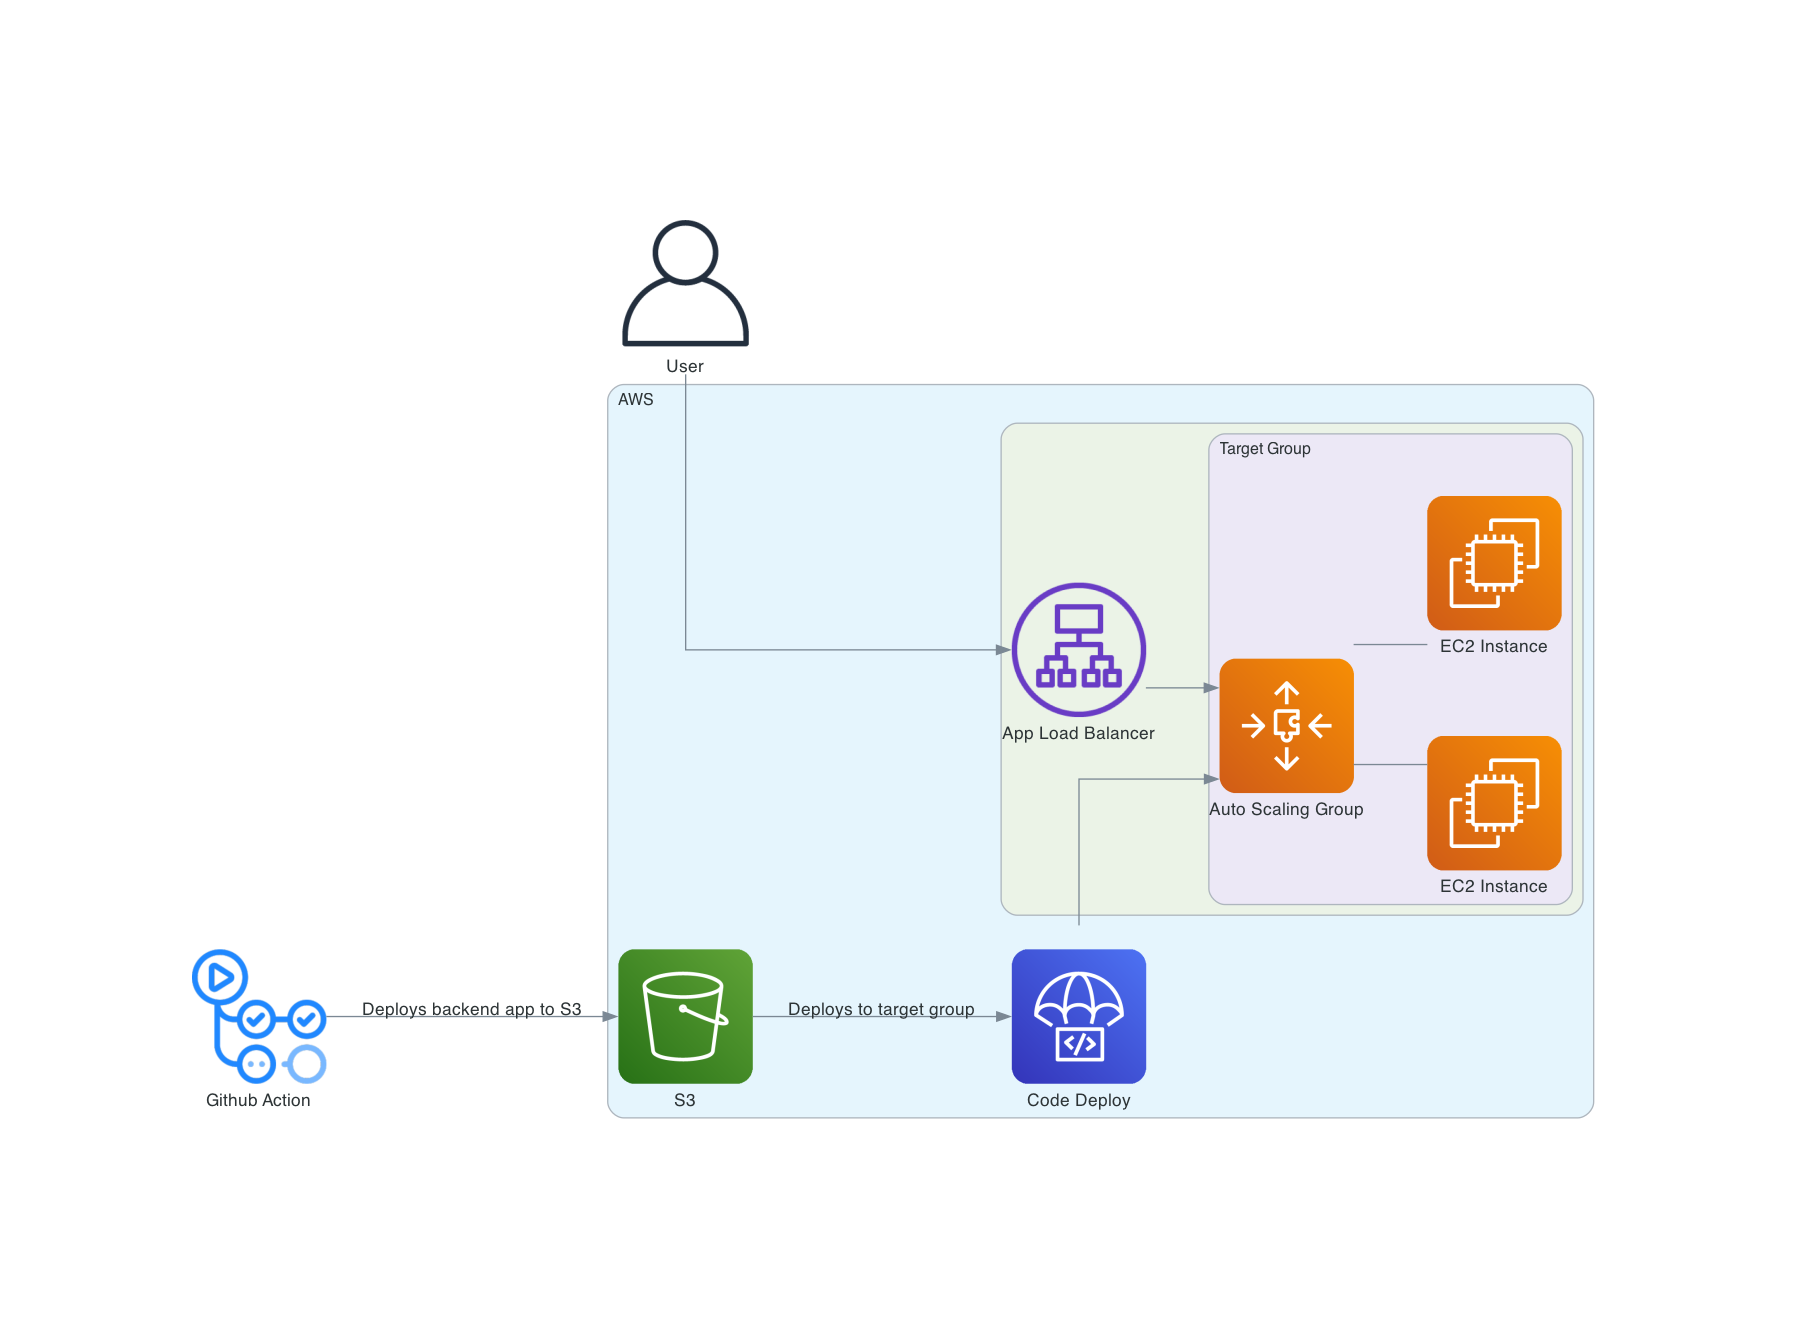
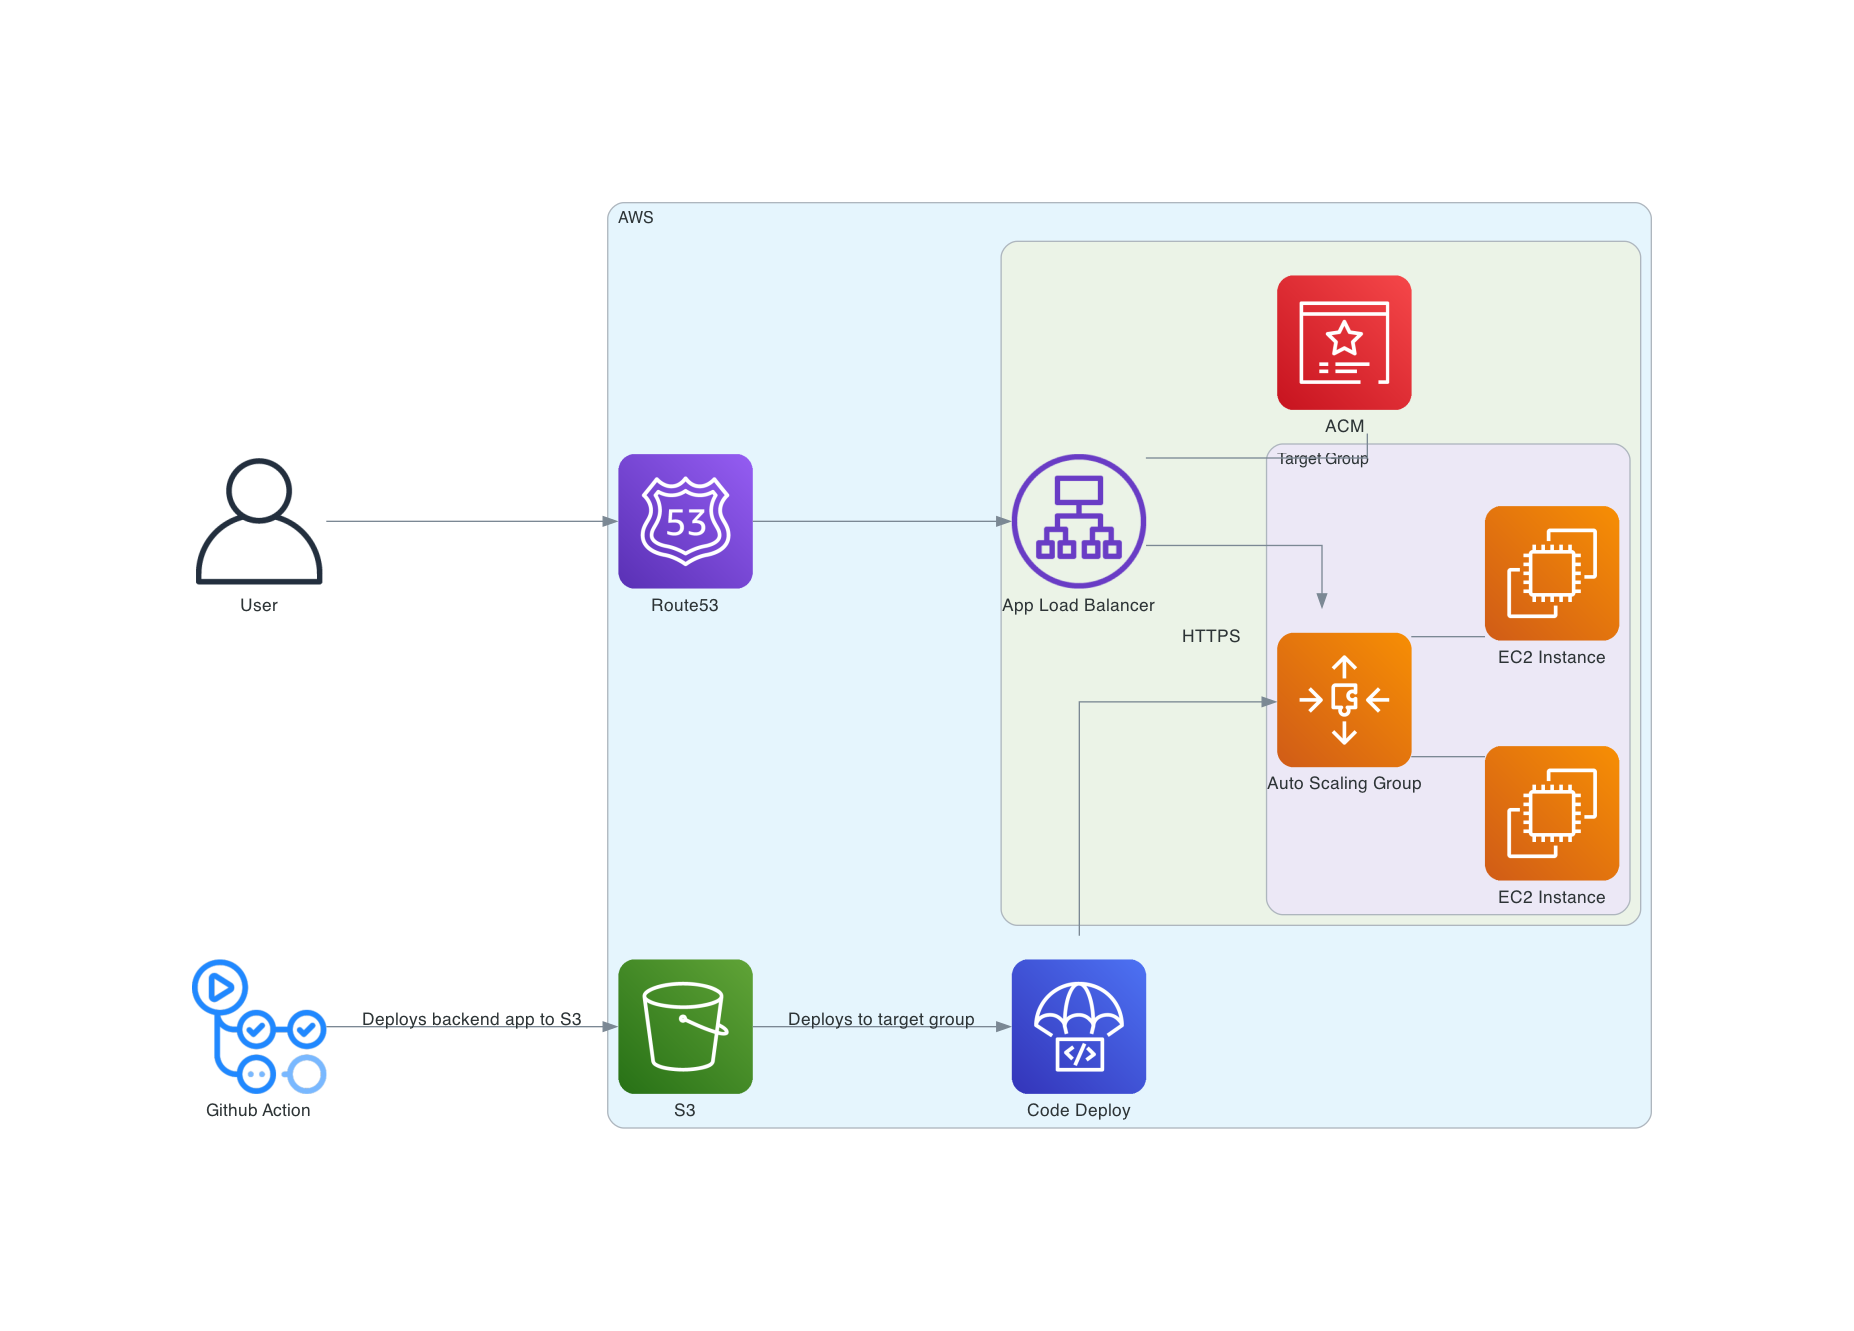
diagrams: Update diagram with route53

diff --git a/diagrams/backend_diagram.py b/diagrams/backend_diagram.py
@@ -12,24 +12,23 @@ with Diagram("", filename="backend_diagram", outformat="png"):
     github_action = GithubActions("Github Action")
 
     with Cluster("AWS"):
-        # route_53 = Route53("Route53")
-        # route_53 - ACM("ACM")
+        route_53 = Route53("Route53")
 
         s3_bucket = S3("S3")
         code_deploy_group = Codedeploy("Code Deploy")
 
         with Cluster(""):
             app_load_balancer = ALB("App Load Balancer")
+            app_load_balancer - ACM("ACM")
 
             with Cluster("Target Group"):
                 auto_scaling_group = AutoScaling("Auto Scaling Group")
-                app_load_balancer >> Edge(label="") >> auto_scaling_group
+                app_load_balancer >> Edge(label="HTTPS") >> auto_scaling_group
                 auto_scaling_group - [
                     EC2("EC2 Instance"), EC2("EC2 Instance")]
 
-        # route_53 >> app_load_balancer
+        route_53 >> app_load_balancer
 
-    # user >> Edge(label="") >> route_53
-    user >> app_load_balancer
+    user >> Edge(label="") >> route_53
     github_action >> Edge(label="Deploys backend app to S3") >> s3_bucket >> Edge(
         label="Deploys to target group") >> code_deploy_group >> auto_scaling_group
